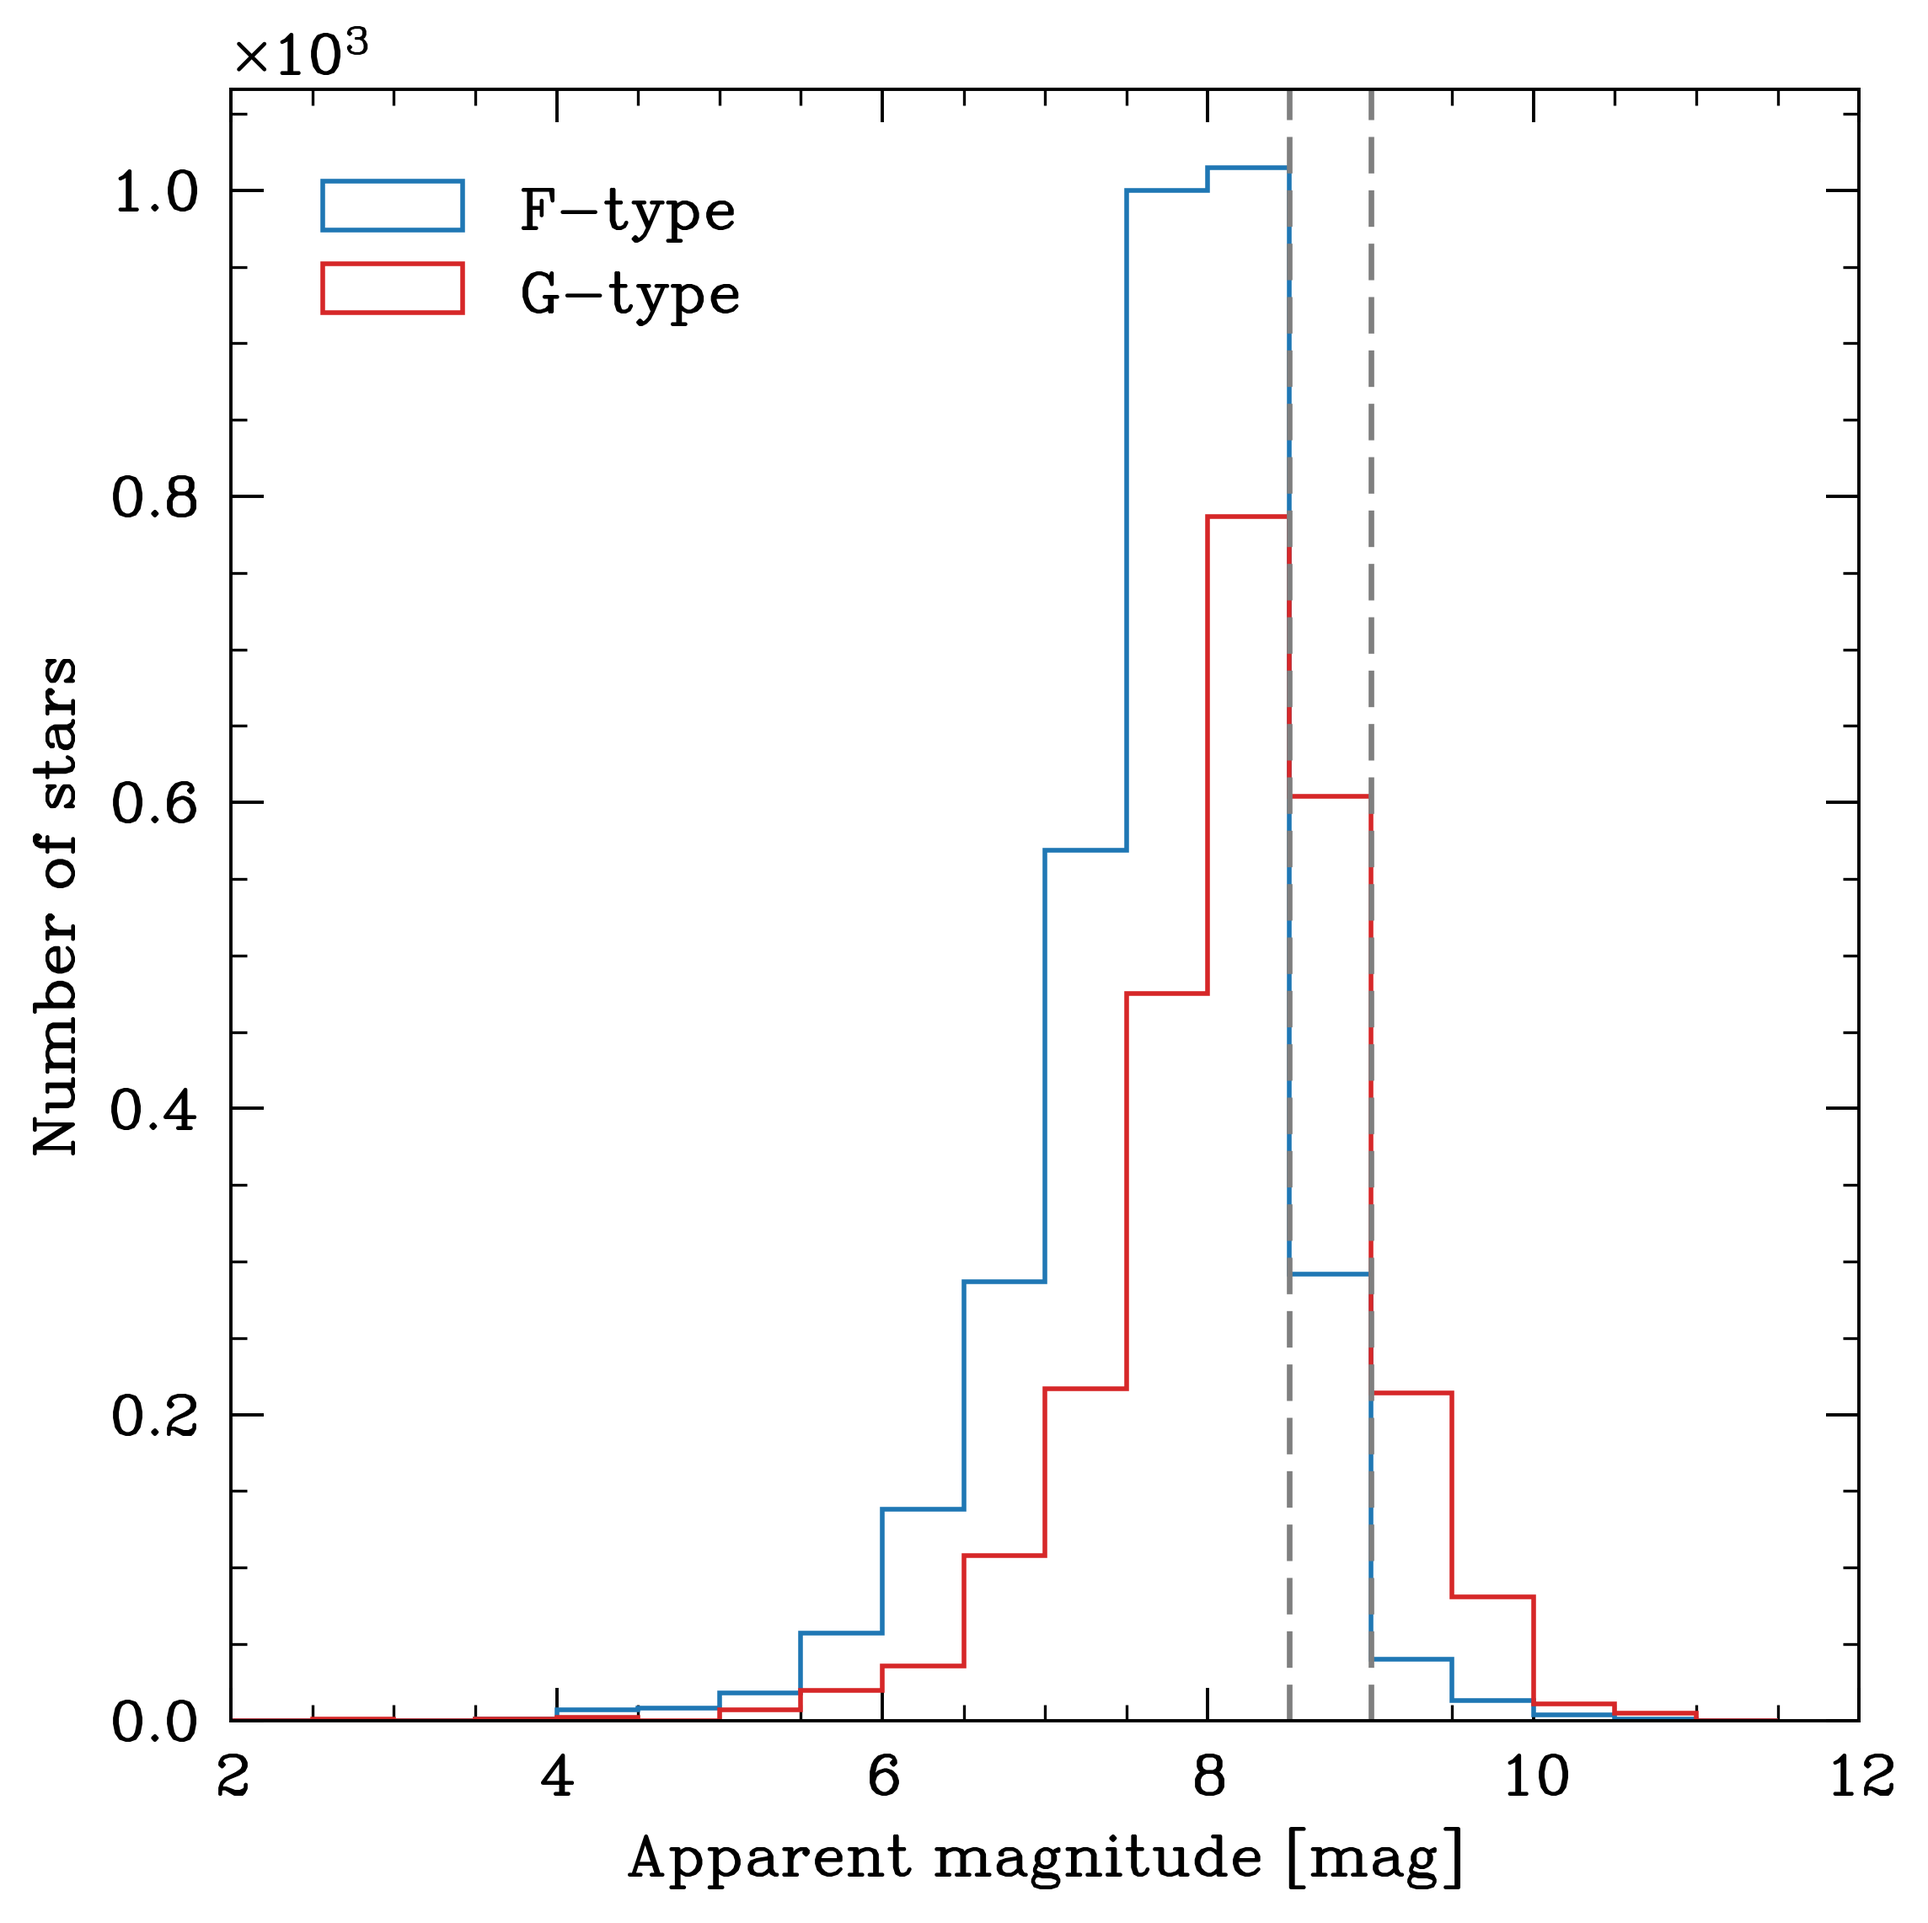
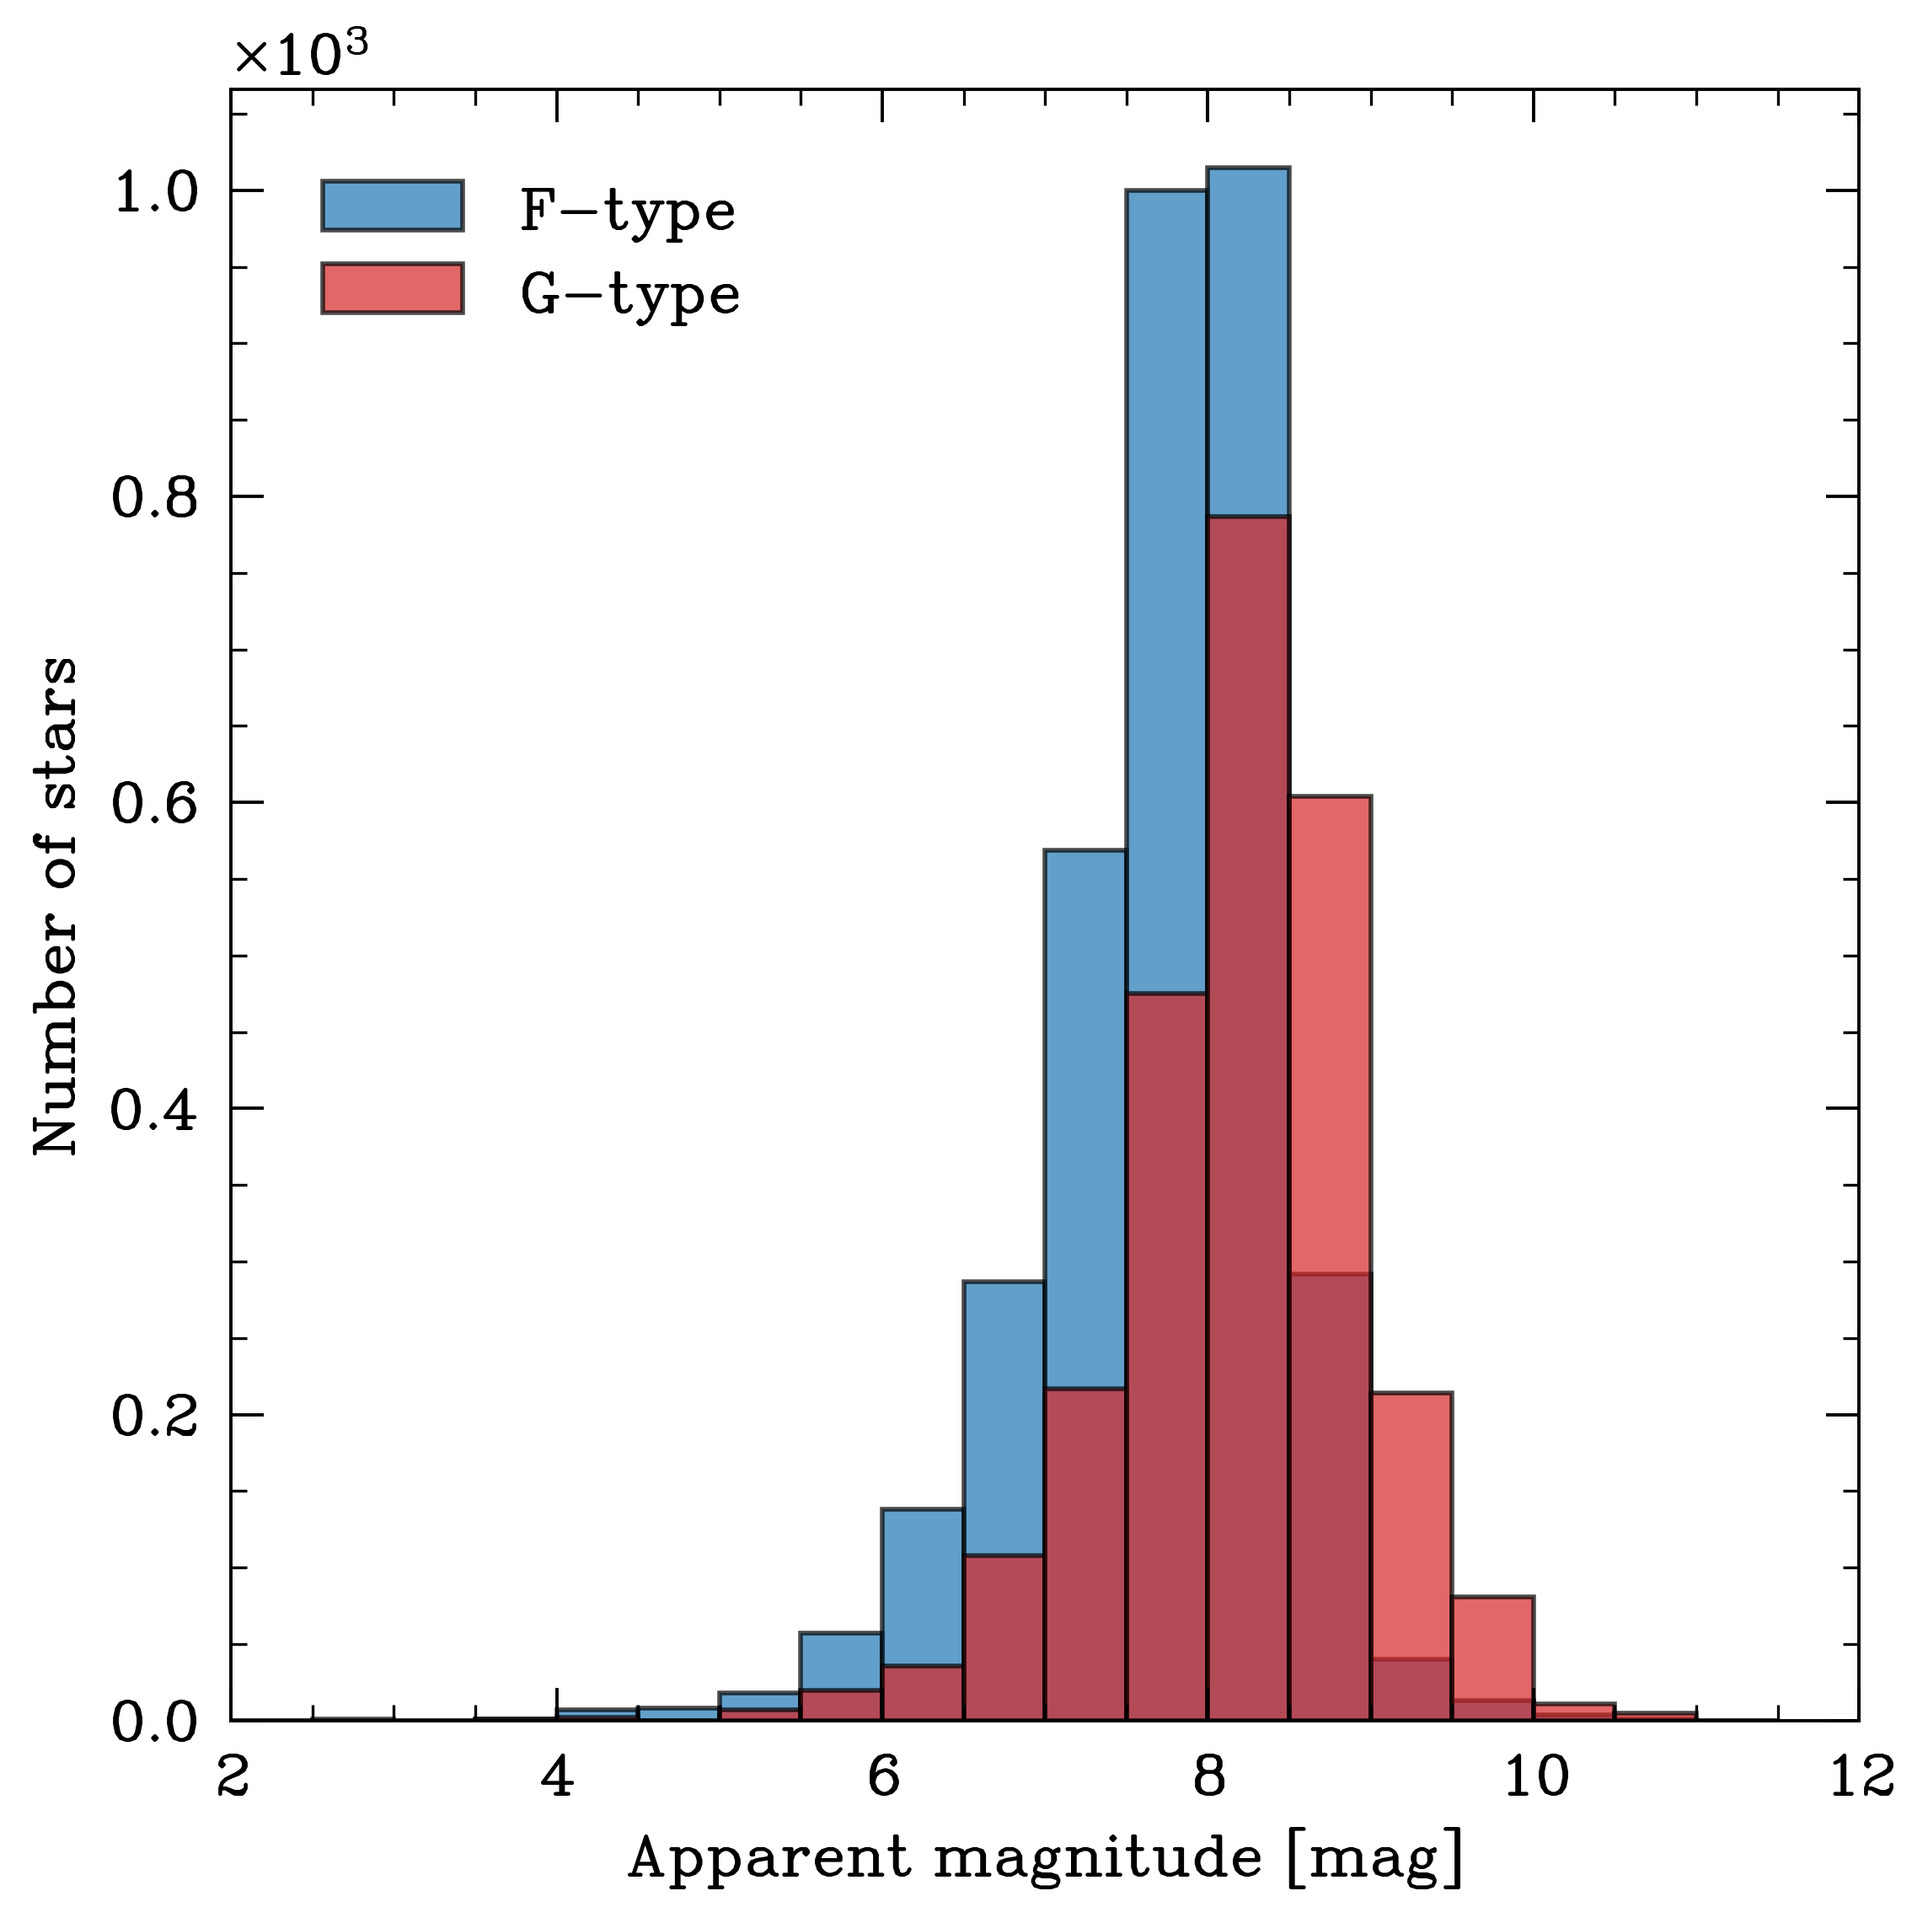
add residual graph (second version o fig 4)

Changed region(s): [[0.2793, 0.0622, 0.8689, 0.9023], [0.1552, 0.0933, 0.2483, 0.1867]]

diff --git a/main.py b/main.py
@@ -1,7 +1,11 @@
 import os
 import numpy  as np
 import pandas as pd
+
 import matplotlib.pyplot as plt
+from matplotlib.lines import Line2D
+import matplotlib.colors as mcolors
+
 from scipy.stats import pearsonr, spearmanr
 
 from functions import *
@@ -9,7 +13,7 @@ from functions import *
 # User-defined parameters
 TC = 20                         # Increment value
 UL = 150                        # Upper limit of parameter interval
-DATA_SELECTION = 'G'          # Options: 'F', 'G', 'ALL'
+DATA_SELECTION = 'G'            # Options: 'F', 'G', 'ALL'
 PLANE = 'ZY'                    # Options: 'XY', 'XZ', 'ZY'
 B = 1000                        # Number of bootstrap samples
 INTERVAL = 1                    # Grid interval
@@ -66,7 +70,7 @@ fig, (ax1, ax2) = plt.subplots(2, 1, figsize=(6, 10), sharex=True, sharey=True)
 def plot1(glon, glat, vsini, label, ax, scaler=2):
     scatter = ax.scatter(
         glon, glat, s=vsini * scaler, c=vsini,
-        cmap="jet", ec="k", lw=0.5
+        cmap="jet", ec="k", lw=0.5,
     )
     ax.set(xlim=(0, 361), ylim=(-90, 90))
     ax.text(0.05, 0.95, label, transform=ax.transAxes, fontsize=12,
@@ -132,15 +136,15 @@ bin_edges = np.arange(2, 12, 0.5)
 _, ax = plt.subplots()
 
 # Plot histogram for F-type stars
-ax.hist(vmag_F, bins=bin_edges, ec="tab:blue", histtype="step", label="F-type")
+ax.hist(vmag_F, bins=bin_edges, color="tab:blue", ec="k", label="F-type", alpha=0.7)
 ax.set_xlim(2, 12)
 
 # Plot histogram for G-type stars
-ax.hist(vmag_G, bins=bin_edges, ec="tab:red", histtype="step", label="G-type")
+ax.hist(vmag_G, bins=bin_edges, color="tab:red", ec="k", label="G-type", alpha=0.7)
 
 # Add vertical lines for fall-off points
-ax.axvline(falloff_f, color='tab:gray', linestyle='--')
-ax.axvline(falloff_g, color='tab:gray', linestyle='--')
+# ax.axvline(falloff_f, color='gray', linestyle='--', lw=1.5)
+# ax.axvline(falloff_g, color='gray', linestyle='--', lw=1.5)
 
 # Labeling and legend
 ax.set(xlabel="Apparent magnitude [mag]", ylabel="Number of stars")
@@ -179,6 +183,34 @@ s2g, i2g, e2g = linear_regression(x2g,y2g)
 print(f"\n0-80 slope F-stars slope (95%): {s1g:.3f} +/- {e1g:.3f}")
 print(f"80-350 slope F-stars slope (95%): {s2g:.3f} +/- {e2g:.3f}")
 
+######################################################################
+
+# Sample 0-80 pc for F
+x1 = F[F["Dist"] < 80]["Dist"].values
+y1 = F[F["Dist"] < 80]["vsini"].values
+s1, i1, e1 = linear_regression(x1,y1)
+
+# Sample 80-350 pc  for F
+x2 = F[F["Dist"] > 80]["Dist"].values
+y2 = F[F["Dist"] > 80]["vsini"].values
+s2, i2, e2 = linear_regression(x2,y2)
+
+print(f"\n0-80 slope F-stars slope (95%): {s1:.3f} +/- {e1:.3f}")
+print(f"80-350 slope F-stars slope (95%): {s2:.3f} +/- {e2:.3f}")
+
+# Sample 0-80 pc for G
+x1g = G[G["Dist"] < 80]["Dist"].values
+y1g = G[G["Dist"] < 80]["vsini"].values
+s1g, i1g, e1g = linear_regression(x1g,y1g)
+
+# Sample 80-350 pc  for G
+x2g = G[G["Dist"] > 80]["Dist"].values
+y2g = G[G["Dist"] > 80]["vsini"].values
+s2g, i2g, e2g = linear_regression(x2g,y2g)
+
+print(f"\n0-80 slope F-stars slope (95%): {s1g:.3f} +/- {e1g:.3f}")
+print(f"80-350 slope F-stars slope (95%): {s2g:.3f} +/- {e2g:.3f}")
+
 ################################### FIGURE 4 ###################################
 
 X = np.linspace(0, 400, 100)
@@ -186,7 +218,7 @@ X = np.linspace(0, 400, 100)
 fig, (ax1, ax2) = plt.subplots(2, 1, figsize=(6, 10), sharex=True, sharey=True)
 
 # Scatter plots for F
-ax1.scatter(F["Dist"], F["vsini"], ec = "white", fc = "tab:gray", lw = 0.2, s = 20)
+ax1.scatter(F["Dist"], F["vsini"], ec = "white", fc = "tab:gray", lw = 0.2, s = 20, alpha=0.7)
 ax1.set_ylim(0, 140)
 ax1.set_xlim(0, 350)
 
@@ -204,7 +236,7 @@ ax1.text(0.05, 0.95, "F-type", transform=ax1.transAxes, fontsize=12,
         verticalalignment='top', bbox=dict(facecolor='white', edgecolor='black'))
 
 # and for G
-ax2.scatter(G["Dist"], G["vsini"], ec = "white", fc = "tab:gray", lw = 0.2, s = 20)
+ax2.scatter(G["Dist"], G["vsini"], ec = "white", fc = "tab:gray", lw = 0.2, s = 20, alpha=0.7)
 
 line1, = ax2.plot(X, i1g + s1g * X, "tab:blue", lw=1.5, 
                 label="0-80 pc slope", ls="--")
@@ -225,6 +257,113 @@ plt.xlabel(r"Distance $R$ [pc]")
 plt.tight_layout()
 plt.savefig(f"{OUTDIR}/fig4_FG.png", bbox_inches="tight", dpi=400)
 print(f"\n>> Image successfully saved as 'fig4_FG.png' in {OUTDIR} folder")
+
+
+################################################################################
+
+X = np.linspace(0, 400, 100)
+
+# Calculate residuals and standard deviation for each case for F-stars
+residuals_1 = F[F["Dist"] < 80]["vsini"] - (i1 + s1 * F[F["Dist"] < 80]["Dist"])
+sigma_1 = residuals_1 / np.std(residuals_1)
+
+residuals_2 = F[F["Dist"] > 80]["vsini"] - (i2 + s2 * F[F["Dist"] > 80]["Dist"])
+sigma_2 = residuals_2 / np.std(residuals_2)
+
+# Calculate residuals and standard deviation for each case for G-stars
+residuals_1g = G[G["Dist"] < 80]["vsini"] - (i1g + s1g * G[G["Dist"] < 80]["Dist"])
+sigma_1g = residuals_1g / np.std(residuals_1g)
+
+residuals_2g = G[G["Dist"] > 80]["vsini"] - (i2g + s2g * G[G["Dist"] > 80]["Dist"])
+sigma_2g = residuals_2g / np.std(residuals_2g)
+
+all_sigma = np.concatenate([sigma_1, sigma_2, sigma_1g, sigma_2g])
+min_val = np.floor(all_sigma.min())
+max_val = np.ceil(all_sigma.max())
+bins = np.arange(min_val, max_val, 2)
+
+cmap = plt.get_cmap("jet")
+#cmap = mcolors.ListedColormap(plt.get_cmap("tab20b").colors + plt.get_cmap("tab20c").colors, name="tab20b_tab20c")
+norm = mcolors.BoundaryNorm(bins, cmap.N)
+
+fig, (ax1, ax2) = plt.subplots(2, 1, figsize=(6, 10), sharex=True, sharey=True)
+ax1.set_ylim(0, 140)
+ax1.set_xlim(0, 350)
+
+# Scatter plots for F-stars
+sc1 = ax1.scatter(F[F["Dist"] < 80]["Dist"], F[F["Dist"] < 80]["vsini"], 
+            c=sigma_1, cmap=cmap, norm=norm, lw=0.2, s=20)
+sc2 = ax1.scatter(F[F["Dist"] > 80]["Dist"], F[F["Dist"] > 80]["vsini"], 
+            c=sigma_2, cmap=cmap, norm=norm, lw=0.2, s=20)
+
+line1, = ax1.plot(X, i1 + s1 * X, "k", lw=1.5, 
+                label="0-80 pc slope", ls="--")
+line2, = ax1.plot(X, i2 + s2 * X, "k", 
+                lw=1.5, label="80-350 pc slope", ls="dotted")
+
+label_line(line1, x = 280, fontsize=13, color = "k", 
+                backgroundcolor = "white")
+label_line(line2, x = 280, fontsize=13, color = "k", 
+                backgroundcolor = "white")
+
+ax1.axvline(x=80, color='k', linestyle='-')
+ax1.text(76, 130, "Division at 80 pc", rotation=90, color='black', fontsize=12, verticalalignment='top',
+        bbox=dict(facecolor='white', edgecolor='none'))
+ax1.text(0.05, 0.95, "F-type", transform=ax1.transAxes, fontsize=12,
+        verticalalignment='top', bbox=dict(facecolor='white', edgecolor='black'))
+
+# Scatter plots for G-stars
+sc3 = ax2.scatter(G[G["Dist"] < 80]["Dist"], G[G["Dist"] < 80]["vsini"], 
+                c=sigma_1g, cmap=cmap, norm=norm, lw=0.2, s=20)
+sc4 = ax2.scatter(G[G["Dist"] > 80]["Dist"], G[G["Dist"] > 80]["vsini"], 
+                c=sigma_2g,cmap=cmap, norm=norm, lw=0.2, s=20)
+
+line1, = ax2.plot(X, i1g + s1g * X, "k", lw=1.5, 
+                label="0-80 pc slope", ls="--")
+line2, = ax2.plot(X, i2g + s2g * X, "k", 
+                lw=1.5, label="80-350 pc slope", ls="dotted")
+
+label_line(line1, x = 280, fontsize=13, color = "k", 
+                backgroundcolor = "white")
+label_line(line2, x = 280, fontsize=13, color = "k", 
+                backgroundcolor = "white")
+
+ax2.axvline(x=80, color='k', linestyle='-')
+ax2.text(76, 130, "Division at 80 pc", rotation=90, color='black', fontsize=12, verticalalignment='top',
+         bbox=dict(facecolor='white', edgecolor='none'))
+
+ax2.text(0.05, 0.95, "G-type", transform=ax2.transAxes, fontsize=12,
+         verticalalignment='top', bbox=dict(facecolor='white', edgecolor='black'))
+
+fig.text(-0.02, 0.5, r"$v \sin i$ [km/s]", va='center', rotation='vertical')
+plt.xlabel(r"Distance $R$ [pc]")
+
+legend_elements_F = [
+    Line2D([0], [0], marker='o', color='w', markerfacecolor=cmap(norm(-2)), markersize=10, label='[-3, -1)'),
+    Line2D([0], [0], marker='o', color='w', markerfacecolor=cmap(norm(0)), markersize=10, label='[-1, 1)'),
+    Line2D([0], [0], marker='o', color='w', markerfacecolor=cmap(norm(2)), markersize=10, label='[1, 3)'),
+    Line2D([0], [0], marker='o', color='w', markerfacecolor=cmap(norm(4)), markersize=10, label='[3, 5)'),
+    Line2D([0], [0], marker='o', color='w', markerfacecolor=cmap(norm(6)), markersize=10, label='[5, 7)'),
+]
+ax1.legend(handles=legend_elements_F, loc='upper right', fontsize=12, title="Residuals $\sigma$")
+
+# Add the same for G-stars
+legend_elements_G = [
+    Line2D([0], [0], marker='o', color='w', markerfacecolor=cmap(norm(-2)), markersize=10, label='[-3, -1)'),
+    Line2D([0], [0], marker='o', color='w', markerfacecolor=cmap(norm(0)), markersize=10, label='[-1, 1)'),
+    Line2D([0], [0], marker='o', color='w', markerfacecolor=cmap(norm(2)), markersize=10, label='[1, 3)'),
+    Line2D([0], [0], marker='o', color='w', markerfacecolor=cmap(norm(4)), markersize=10, label='[3, 5)'),
+    Line2D([0], [0], marker='o', color='w', markerfacecolor=cmap(norm(6)), markersize=10, label='[5, 7)'),
+    Line2D([0], [0], marker='o', color='w', markerfacecolor=cmap(norm(8)), markersize=10, label='[7, 9)'),
+    Line2D([0], [0], marker='o', color='w', markerfacecolor=cmap(norm(10)), markersize=10, label='[9, 11)')
+]
+
+# Add legend to ax2
+ax2.legend(handles=legend_elements_G, loc='upper right', fontsize=12, title="Residuals $\sigma$")
+
+plt.tight_layout()
+plt.savefig(f"{OUTDIR}/fig4_FG_sigma.png", bbox_inches="tight", dpi=400)
+print(f"\n>> Image successfully saved as 'fig4_FG_sigma.png' in {OUTDIR} folder")
 
 ######################################################################
 
